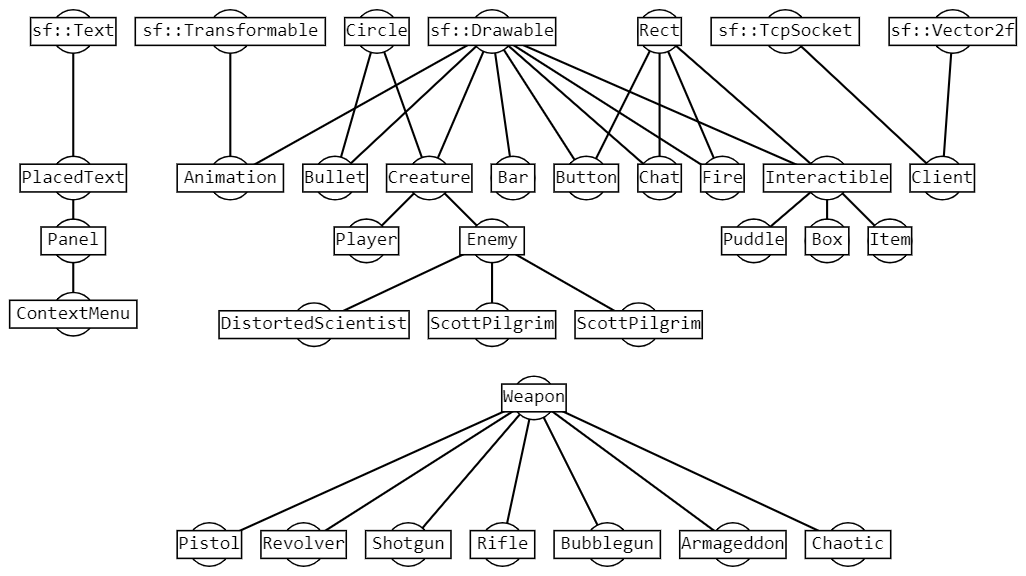
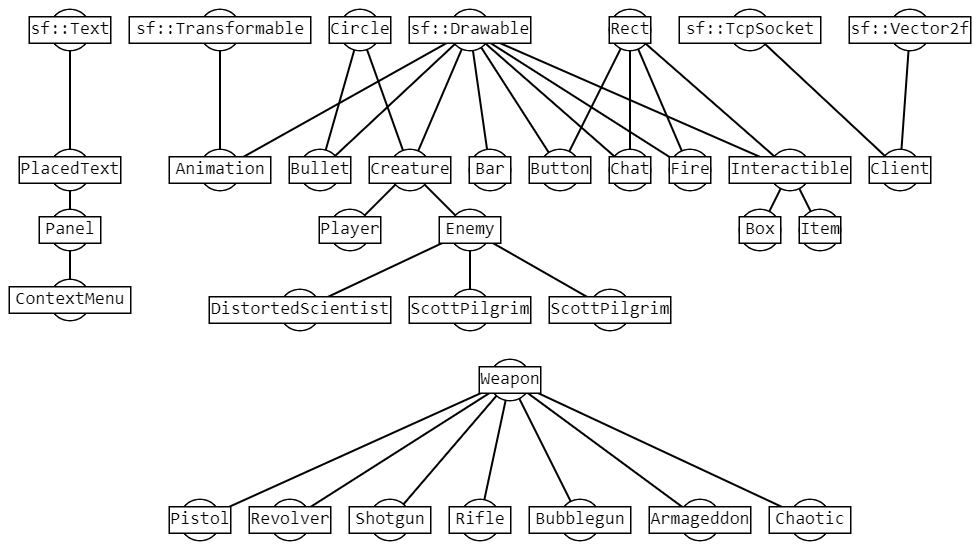
changed inclusions. Puddle is just an Interactable

diff --git a/Headers/GameEngine.h b/Headers/GameEngine.h
@@ -2,7 +2,6 @@
 #include "chat.h"
 #include "contextMenu.h"
 #include "bar.h"
-#include "puddle.h"
 #include "player.h"
 #include "client.h"
 #include "box.h"
@@ -92,7 +91,7 @@ bool ClientFuncRun, HostFuncRun;
 Interactable portal;
 
 //////////////////////////////////////////////////////////// Puddle
-Puddle puddle;
+Interactable puddle;
 
 //////////////////////////////////////////////////////////// Puddle
 Interactable architect;
@@ -1036,7 +1035,7 @@ void EventHandler() {
 
 void useItem(ItemID::Type id) {
     ///////////////////////////////////// PLACEHOLDER ACTIONS. ALL ITEM FUNCTIONS ARE NOT FINAL
-    if (id == ItemID::medkit)
+    if (id == ItemID::regenDrug)
         player.HealthRecovery += 1;
 }
 
@@ -1105,11 +1104,13 @@ void MainLoop() {
                 }
                 if (add1) {
                     FireSet.push_back(FireSet[i]->descendant1);
+                    FireSet[FireSet.size() - 1]->setAnimation(Textures::Fire, 1, 1, sf::seconds(1), &Shaders::Map);
                     DrawableStuff.push_back(FireSet[i]->descendant1);
                 }
                 else delete FireSet[i]->descendant1;
                 if (add2) {
                     FireSet.push_back(FireSet[i]->descendant2);
+                    FireSet[FireSet.size() - 1]->setAnimation(Textures::Fire, 1, 1, sf::seconds(1), &Shaders::Map);
                     DrawableStuff.push_back(FireSet[i]->descendant2);
                 }
                 else delete FireSet[i]->descendant2;
